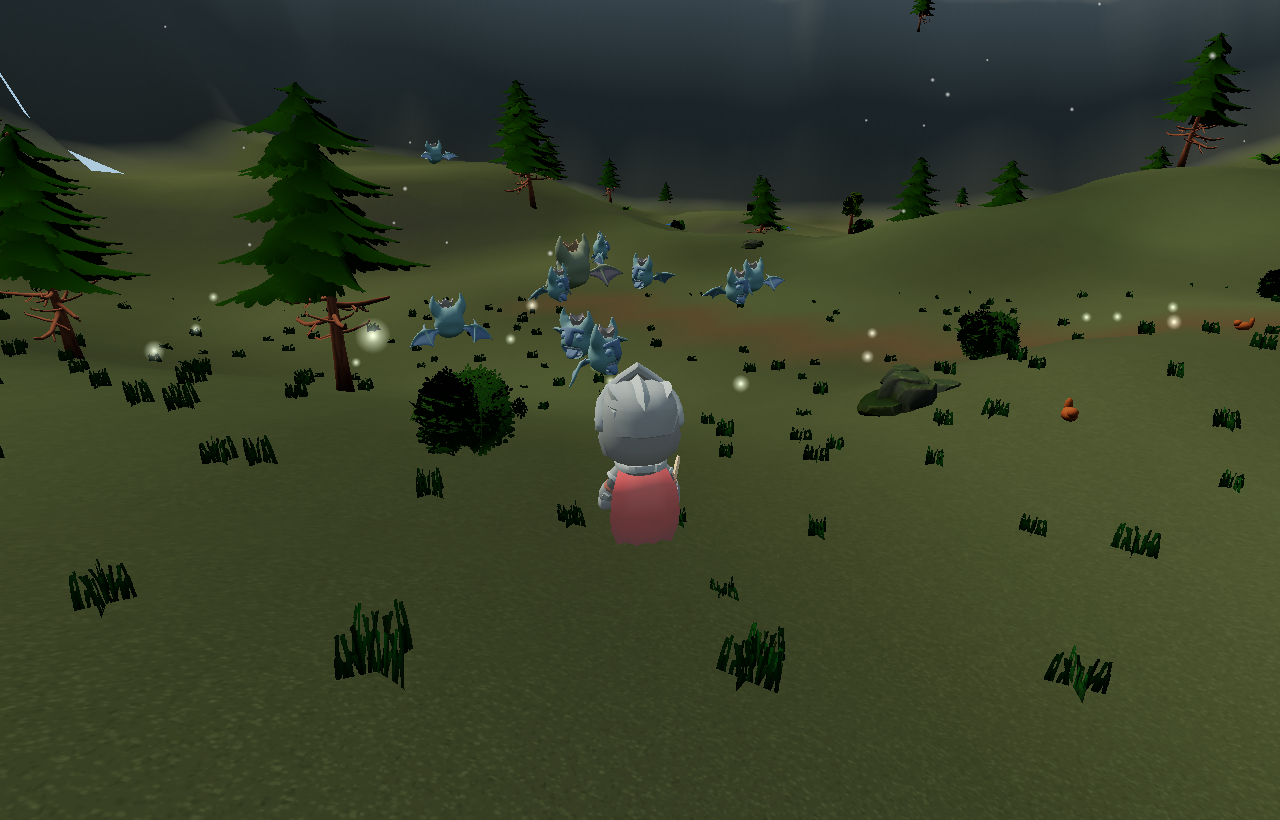
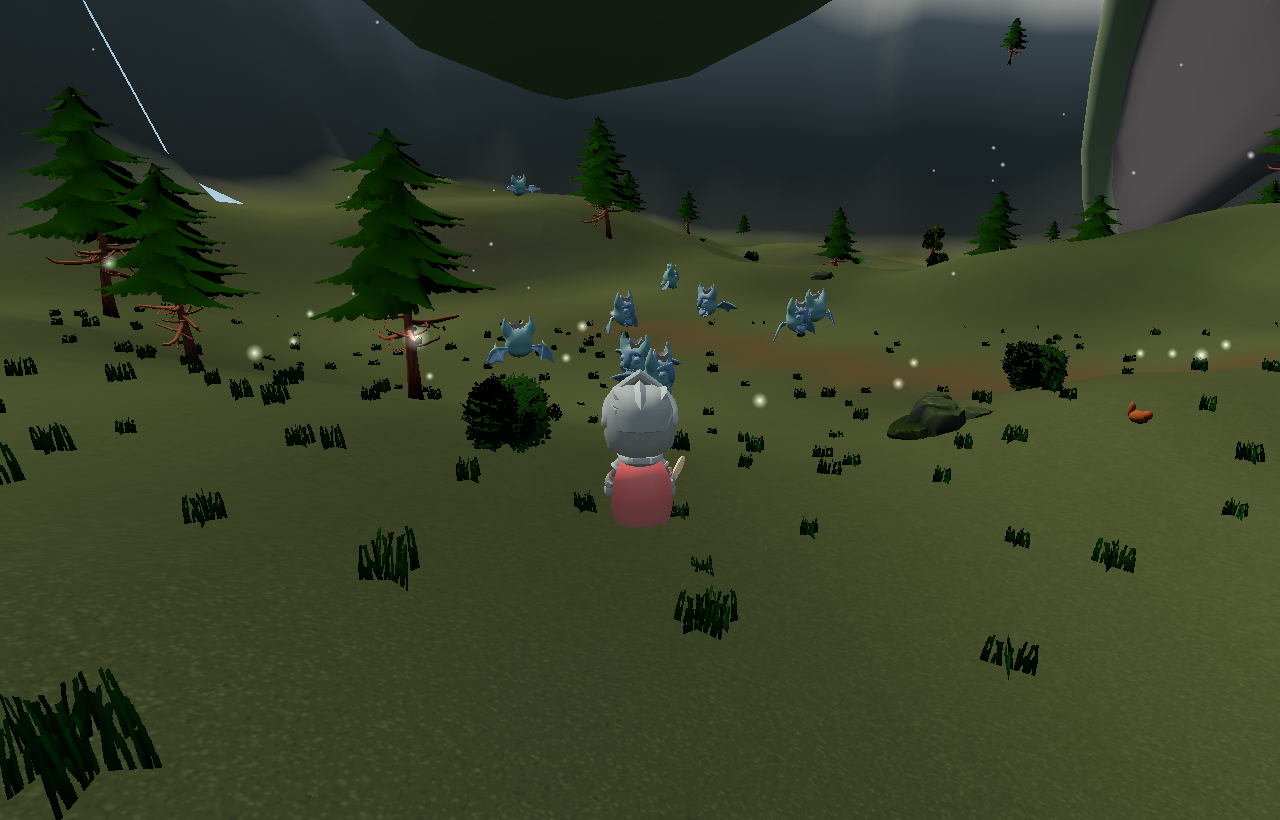
fix(world-boss): rebalance Thunzharr size, snare, per-player HP, and slow immunity
- scale 50 to 8: an imposing world boss without dwarfing the zone. Combat reach stays
  pinned to a scale-5 body in combatProfileForMob, so he remains unkitable regardless.
- Howling Gale snare 80% to 30% (aoeSlow mult 0.2 to 0.7): denies a permanent kite
  (7yd/s hunter vs 5.8 boss) without rooting the raid in place.
- per-player HP step 40k to 5k: scaleWorldBossHp adds each joiner's delta to CURRENT hp
  (real health, not a heal), so a steep step made the bar visibly refill as a raid
  trickled in and read as "he takes way less damage". The gentle step keeps the pool
  scaling with raid size without stalling the fight.
- Thunzharr is now immune to player movement slows (new slowImmune template flag).
  ccImmune blocks the hard control auras (stun/root/etc) but intentionally leaves snares
  landing so most elites can still be kited; a raid boss opts into both.

Updates the world_boss test suite (snare value, scale/reach decoupling, per-player pool,
plus a new slow-immunity test) and refreshes the size before/after screenshots.

diff --git a/tests/world_boss.test.ts b/tests/world_boss.test.ts
@@ -452,7 +452,7 @@ describe('world boss anti-kite snare (Howling Gale)', () => {
     sim.tick();
   }
 
-  it('snares a ranged kiter it is chasing, cutting move speed to 20% (not kiteable)', () => {
+  it('snares a ranged kiter it is chasing, cutting move speed to 70% (not kiteable)', () => {
     const sim = makeSim();
     const kiter = sim.addPlayer('hunter', 'Kiter');
     const { boss } = spawnBossNow(sim);
@@ -463,9 +463,10 @@ describe('world boss anti-kite snare (Howling Gale)', () => {
     expect(boss.aiState).toBe('chase'); // the snare fired from the chase path
     const slow = p.auras.find((a) => a.kind === 'slow' && a.name === 'Howling Gale');
     expect(slow).toBeTruthy();
-    expect(slow?.value).toBe(0.2);
-    // Run speed (7) beats the boss's 5.8, but 20% speed (1.4yd/s) lets the boss close.
-    expect((sim as any).moveSpeedMult(p)).toBeCloseTo(0.2, 5);
+    expect(slow?.value).toBe(0.7);
+    // Run speed (7) beats the boss's 5.8, but a 30% snare (4.9yd/s) still lets the boss,
+    // at 5.8, slowly close the gap: the gentler snare denies a perma-kite without rooting.
+    expect((sim as any).moveSpeedMult(p)).toBeCloseTo(0.7, 5);
   });
 
   it('also fires from the attack state and only snares players inside the radius', () => {
@@ -509,6 +510,40 @@ describe('world boss anti-kite snare (Howling Gale)', () => {
   });
 });
 
+describe('world boss slow immunity', () => {
+  it('shrugs off a player-applied snare but still takes a self-applied (scripted) slow', () => {
+    const sim = makeSim();
+    const { boss } = spawnBossNow(sim);
+    const pid = sim.addPlayer('mage', 'Chiller');
+
+    // A Frostbolt/Hamstring-style snare from a player does not stick to the raid boss.
+    (sim as any).applyAura(boss, {
+      id: 'frostbolt_slow',
+      name: 'Frostbolt',
+      kind: 'slow',
+      remaining: 5,
+      duration: 5,
+      value: 0.4,
+      sourceId: pid,
+      school: 'frost',
+    });
+    expect(boss.auras.some((a: { kind: string }) => a.kind === 'slow')).toBe(false);
+
+    // But a self-sourced slow (a scripted mechanic on itself) is exempt from the immunity.
+    (sim as any).applyAura(boss, {
+      id: 'self_slow',
+      name: 'Rooted Stance',
+      kind: 'slow',
+      remaining: 5,
+      duration: 5,
+      value: 0.5,
+      sourceId: boss.id,
+      school: 'nature',
+    });
+    expect(boss.auras.some((a: { kind: string; id: string }) => a.id === 'self_slow')).toBe(true);
+  });
+});
+
 describe('world boss participant HP scaling', () => {
   // Put a player on the boss's hate table (a participant) at melee range.
   function engage(sim: Sim, boss: Entity, pid: number): Entity {
@@ -519,20 +554,20 @@ describe('world boss participant HP scaling', () => {
     return p;
   }
 
-  it('spawns at 40k HP and grows the pool hard per participant, capped at 2M', () => {
+  it('spawns at 40k HP and grows the pool gently per participant, capped at 1M', () => {
     const sim = makeSim();
     const { boss } = spawnBossNow(sim);
     expect(boss.maxHp).toBe(40_000);
     expect(boss.hp).toBe(40_000);
 
-    // Five participants: 40k + 40k * (5 - 1) = 200k.
+    // Five participants: 40k + 5k * (5 - 1) = 60k.
     for (let i = 0; i < 5; i++) engage(sim, boss, sim.addPlayer('warrior', `P${i}`));
     sim.tick();
-    expect(boss.maxHp).toBe(200_000);
+    expect(boss.maxHp).toBe(60_000);
 
-    // A big raid tops out at the 1M cap (reached around 25 participants) so it cannot
-    // be melted in a minute.
-    for (let i = 5; i < 60; i++) engage(sim, boss, sim.addPlayer('warrior', `Q${i}`));
+    // A very large raid still tops out at the 1M cap (40k + 5k * (n - 1) hits 1M at
+    // n = 193 participants) so it cannot grow without bound.
+    for (let i = 5; i < 220; i++) engage(sim, boss, sim.addPlayer('warrior', `Q${i}`));
     sim.tick();
     expect(boss.maxHp).toBe(1_000_000);
   });
@@ -542,22 +577,22 @@ describe('world boss participant HP scaling', () => {
     const { boss } = spawnBossNow(sim);
     for (let i = 0; i < 5; i++) engage(sim, boss, sim.addPlayer('warrior', `P${i}`));
     sim.tick();
-    expect(boss.maxHp).toBe(200_000);
+    expect(boss.maxHp).toBe(60_000);
     // The whole raid drops off the hate table: the boss keeps its enlarged pool.
     boss.threat.clear();
     sim.tick();
-    expect(boss.maxHp).toBe(200_000);
+    expect(boss.maxHp).toBe(60_000);
   });
 });
 
-describe('world boss is oversized and loud', () => {
-  it('is a towering, oversized world boss with combat reach decoupled from visual scale', () => {
+describe('world boss is imposing and loud', () => {
+  it('renders at a fixed visual scale while its melee reach stays pinned to a scale-5 body', () => {
     const sim = makeSim();
     const { boss } = spawnBossNow(sim);
-    // Rendered mountain-sized so he reads as a world boss on the skyline.
-    expect(boss.scale).toBe(50);
-    // But his melee reach is PINNED to a ~17yd body, not the ~150yd a scale-50 body
-    // would give: the Howling Gale snare, not a giant swing, is what makes him unkitable.
+    // A large, imposing world boss, but no longer mountain-sized.
+    expect(boss.scale).toBe(8);
+    // His melee reach is PINNED to a ~17yd (scale-5) body, not the wider reach a scale-8
+    // body would give: the Howling Gale snare, not a giant swing, is what makes him unkitable.
     const reach = combatProfileForMob(boss.templateId, boss.scale).meleeRange;
     expect(reach).toBe(scaledDefaultMobMeleeRange(5));
     expect(reach).toBeLessThan(scaledDefaultMobMeleeRange(boss.scale));

diff --git a/src/sim/content/zone3.ts b/src/sim/content/zone3.ts
@@ -820,6 +820,9 @@ export const ZONE3_MOBS: Record<string, MobTemplate> = {
     elite: true,
     canSwim: false,
     ccImmune: true,
+    // A raid boss cannot be perma-snared by a wall of Frostbolts / Hamstrings: slows do
+    // not stick to him (ccImmune already blocks stun/root/etc; slow is separate).
+    slowImmune: true,
     // Raid-tier health: ~20k base at level 20, ~44k after the elite multiplier, a
     // sustained fight for a gathered raid, far above the solo/small-group rares
     // (Varkas and Bound Guardian scale the same way from ~2k / ~1.3k base).
@@ -854,14 +857,16 @@ export const ZONE3_MOBS: Record<string, MobTemplate> = {
       school: 'nature',
     },
     // Howling Gale: the anti-kite snare. Gale-force winds pin every player within 40yd
-    // to 20% move speed for 6s, re-slammed every 5s (so uptime is permanent while you
+    // to 70% move speed for 6s, re-slammed every 5s (so uptime is permanent while you
     // stand in the storm, and the snare lingers if you flee the radius). Unlike the
     // other pulses this one also fires while Thunzharr is CHASING, so a hunter whose
     // run speed (7) outpaces the boss (5.8) can no longer kite it forever: once snared
-    // to 1.4yd/s the boss closes and the melee, Thunderclap, and Stomp come online.
+    // to 4.9yd/s the boss (5.8) still closes and the melee, Thunderclap, and Stomp come
+    // online. A gentle 30% snare, not a hard 80% one: it denies a permanent kite without
+    // rooting the raid in place.
     aoeSlow: {
       radius: 40,
-      mult: 0.2,
+      mult: 0.7,
       duration: 6,
       every: 5,
       name: 'Howling Gale',
@@ -920,7 +925,7 @@ export const ZONE3_MOBS: Record<string, MobTemplate> = {
       { itemId: 'soulflame_cord', chance: 0.08, rollGroup: 'thunzharr_t2_belt' },
       { itemId: 'stormcallers_waistguard', chance: 0.08, rollGroup: 'thunzharr_t2_belt' },
     ],
-    scale: 50, // rendered mountain-sized so he reads as a world boss on the skyline. Visual scale is DECOUPLED from combat reach: his melee is pinned to a ~17yd body in combatProfileForMob (mob_combat.ts), so the Howling Gale snare, not a giant swing, is what keeps him unkitable.
+    scale: 8, // a large, imposing world boss that reads on the skyline without being mountain-sized. Visual scale is DECOUPLED from combat reach: his melee is pinned to a ~17yd (scale-5) body in combatProfileForMob (mob_combat.ts), so the Howling Gale snare, not a giant swing, is what keeps him unkitable.
     color: 0x7d8a99,
   },
   // Stormlings: lesser storm elementals Thunzharr tears loose from itself at the

diff --git a/src/sim/world_boss.ts b/src/sim/world_boss.ts
@@ -51,9 +51,11 @@ export const WORLD_BOSSES: readonly WorldBossDef[] = [
     templateId: 'thunzharr_waking_peak',
     pos: { x: 110, z: 760 },
     intervalSeconds: WORLD_BOSS_INTERVAL_SECONDS,
-    // 40k solo, +40k per extra participant, up to 1M (~25 players), so a crowd cannot
-    // melt him in a minute; the pool scales hard with raid size.
-    hpScale: { base: 40_000, perPlayer: 40_000, max: 1_000_000 },
+    // 40k solo, +5k per extra participant, up to 1M. The per-player step is deliberately
+    // gentle: scaleWorldBossHp adds each joiner's delta to CURRENT hp too (real health,
+    // not a heal), so a steep step made the bar visibly refill as a raid trickled in and
+    // read as "he takes no damage". 5k/head keeps the fight scaling without stalling it.
+    hpScale: { base: 40_000, perPlayer: 5_000, max: 1_000_000 },
   },
 ];
 

diff --git a/src/sim/sim.ts b/src/sim/sim.ts
@@ -3589,6 +3589,16 @@ export class Sim {
       !this.isNythraxisScriptedControl(target, aura)
     )
       return;
+    // Slow immunity is separate from ccImmune: snares (kind 'slow') are not control auras,
+    // so a slowImmune raid boss shrugs off Frostbolt/Hamstring-style movement snares while
+    // still taking a self-applied slow (e.g. a scripted mechanic) through sourceId === self.
+    if (
+      target.kind === 'mob' &&
+      MOBS[target.templateId]?.slowImmune &&
+      aura.kind === 'slow' &&
+      aura.sourceId !== target.id
+    )
+      return;
     const existing = target.auras.findIndex(
       (a) => a.id === aura.id && a.sourceId === aura.sourceId,
     );

diff --git a/src/sim/types.ts b/src/sim/types.ts
@@ -556,6 +556,10 @@ export interface MobTemplate {
   // Rare/miniboss controls.
   canSwim?: boolean;
   ccImmune?: boolean;
+  // Immune to movement-speed slow auras (kind 'slow'). Distinct from ccImmune, which
+  // blocks the hard control auras (stun/root/incapacitate/polymorph) but intentionally
+  // leaves snares landing so most elites can still be kited; a raid boss sets both.
+  slowImmune?: boolean;
   respawnMult?: number;
   // Boss mechanic: periodic AoE pulse around the mob while in combat.
   aoePulse?: {
